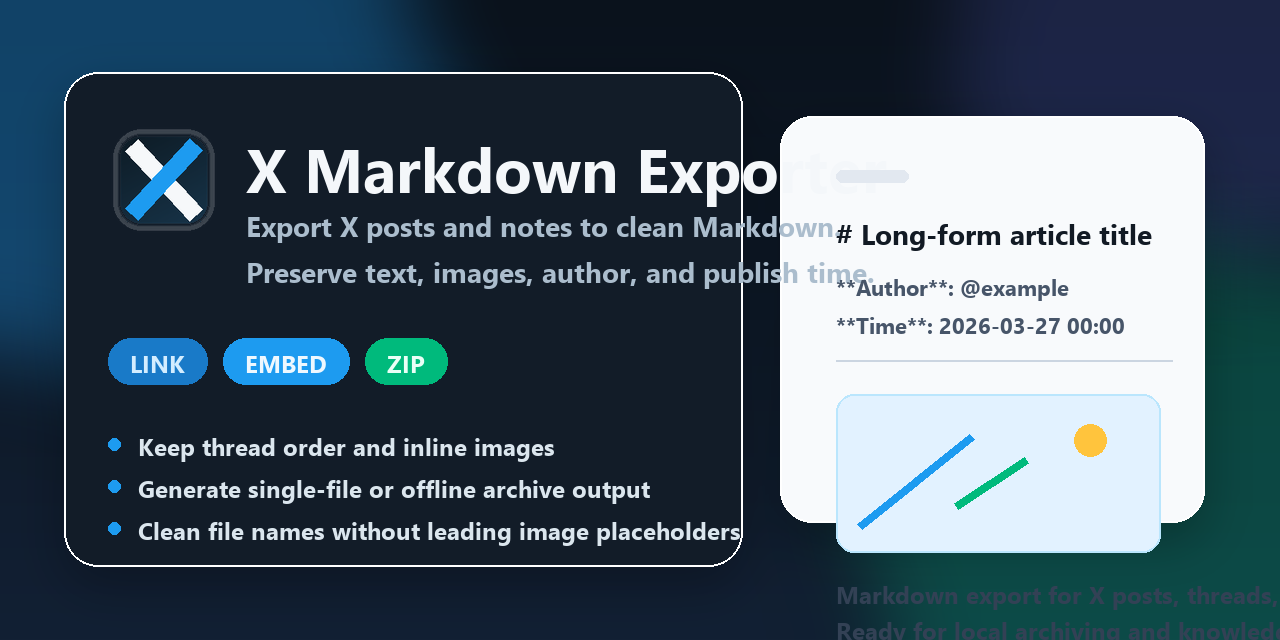
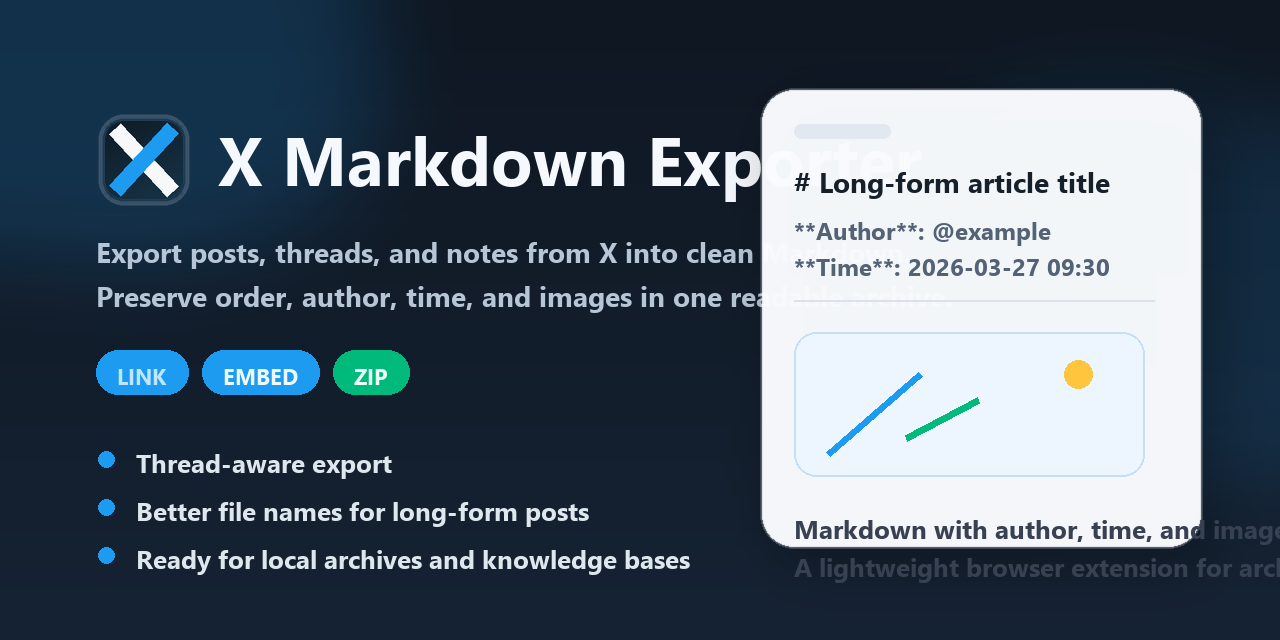
Refresh repo preview and bilingual README

diff --git a/README.md b/README.md
@@ -2,11 +2,21 @@
 
 ![X Markdown Exporter Social Preview](assets/social-preview.png)
 
+[中文](#chinese) | [English](#english)
+
 一个用于导出 X（Twitter）推文、线程和长文为 Markdown 的 Chrome 扩展。
+
+X Markdown Exporter is a Chrome extension for exporting X (Twitter) posts, threads, and long-form notes into Markdown.
+
+<a id="chinese"></a>
+
+## 中文
+
+### 这是什么
 
 它会尽量保留原页面里的图文顺序，并支持三种下载方式：链接引用、内嵌图片、ZIP 打包。导出默认附带作者和发布时间，适合做归档、收藏、整理素材和后续二次写作。
 
-## 功能特性
+### 功能特性
 
 - 支持 X / Twitter 推文详情页导出
 - 支持长文 / Note 页面提取
@@ -20,9 +30,9 @@
 - 自动优化标题与文件名，跳过开头图片占位内容
 - 所有处理都在本地浏览器完成，不依赖后端服务
 
-## 安装方式
+### 安装方式
 
-### 方式一：从 GitHub Release 下载
+#### 方式一：从 GitHub Release 下载
 
 1. 打开 [Releases](https://github.com/Renn9527/x-markdown-exporter/releases)
 2. 下载最新版本里的 `x-markdown-exporter-v1.3.0.zip`
@@ -34,7 +44,7 @@
 6. 点击“加载已解压的扩展程序”
 7. 选择解压后的目录
 
-### 方式二：直接克隆仓库
+#### 方式二：直接克隆仓库
 
 ```bash
 git clone https://github.com/Renn9527/x-markdown-exporter.git
@@ -42,16 +52,16 @@ git clone https://github.com/Renn9527/x-markdown-exporter.git
 
 然后同样在扩展管理页中加载仓库目录。
 
-## 使用方法
+### 使用方法
 
 1. 打开一条 X 推文详情页，或一篇 X 长文页面
 2. 点击浏览器工具栏中的扩展图标
 3. 选择下载模式
 4. 点击“下载 Markdown”
 
-## 导出模式说明
+### 导出模式说明
 
-### `link`
+#### `link`
 
 Markdown 中的图片使用原始 URL。
 
@@ -59,7 +69,7 @@ Markdown 中的图片使用原始 URL。
 - 文件尽量小
 - 不需要离线查看图片
 
-### `embed`
+#### `embed`
 
 图片会压缩后以内嵌方式写入 Markdown。
 
@@ -67,7 +77,7 @@ Markdown 中的图片使用原始 URL。
 - 希望保留单文件
 - 方便直接导入 Obsidian、Notion 或本地知识库
 
-### `zip`
+#### `zip`
 
 Markdown 和图片分开保存，再一起打包成 ZIP。
 
@@ -75,7 +85,7 @@ Markdown 和图片分开保存，再一起打包成 ZIP。
 - 完整离线归档
 - 希望 Markdown 本体保持清爽
 
-## 项目结构
+### 项目结构
 
 ```text
 .
@@ -90,7 +100,7 @@ Markdown 和图片分开保存，再一起打包成 ZIP。
 └─ assets/
 ```
 
-## 技术实现
+### 技术实现
 
 - `content.js`
   - 识别推文详情页和长文页面
@@ -103,19 +113,19 @@ Markdown 和图片分开保存，再一起打包成 ZIP。
   - 检测当前页面是否可导出
   - 切换导出模式并触发下载
 
-## 已知限制
+### 已知限制
 
 - 需要在推文详情页或长文页面使用，列表流页面不会直接导出
 - X 页面 DOM 结构如果发生明显变化，提取规则可能需要更新
 - 当前主要覆盖文字、图片和线程内容，复杂卡片内容可能存在提取差异
 
-## 隐私说明
+### 隐私说明
 
 - 不上传内容到第三方服务器
 - 不依赖账号登录之外的外部服务
 - 图片资源仅通过扩展后台从 X / Twitter 官方资源地址拉取
 
-## 开发说明
+### 开发说明
 
 项目目前是纯前端浏览器扩展，无构建步骤。
 
@@ -125,6 +135,134 @@ Markdown 和图片分开保存，再一起打包成 ZIP。
 2. 回到扩展管理页
 3. 点击“重新加载”
 4. 在 X 页面重新测试
+
+<a id="english"></a>
+
+## English
+
+### What It Does
+
+X Markdown Exporter preserves the reading order of text and images on X pages and lets you export content in three formats: linked images, embedded images, or a ZIP archive. Author and publish time are included by default, which makes it useful for archiving, collecting references, and reusing content in writing workflows.
+
+### Features
+
+- Export X / Twitter post detail pages to Markdown
+- Extract content from long-form notes and article pages
+- Preserve the original order of text and images
+- Export same-author thread continuations
+- Support three output modes:
+  - `link`: keep remote image URLs inside Markdown
+  - `embed`: compress images and embed them as Base64 in a single Markdown file
+  - `zip`: package Markdown and images together in a ZIP archive
+- Include author and publish time by default
+- Generate cleaner titles and filenames by skipping leading image placeholders
+- Run fully in the browser without any backend service
+
+### Installation
+
+#### Option 1: Download from GitHub Releases
+
+1. Open [Releases](https://github.com/Renn9527/x-markdown-exporter/releases)
+2. Download `x-markdown-exporter-v1.3.0.zip`
+3. Extract the ZIP file
+4. Open the extensions page in Chrome or Edge:
+   - Chrome: `chrome://extensions/`
+   - Edge: `edge://extensions/`
+5. Enable Developer Mode
+6. Click `Load unpacked`
+7. Select the extracted folder
+
+#### Option 2: Clone the Repository
+
+```bash
+git clone https://github.com/Renn9527/x-markdown-exporter.git
+```
+
+Then load the repository folder as an unpacked extension.
+
+### Usage
+
+1. Open an X post detail page or a long-form note page
+2. Click the extension icon in the browser toolbar
+3. Choose an export mode
+4. Click `Download Markdown`
+
+### Export Modes
+
+#### `link`
+
+Images remain as remote URLs inside the Markdown file.
+
+Best for:
+- the smallest possible file size
+- online reading with no offline image requirement
+
+#### `embed`
+
+Images are compressed and embedded directly into the Markdown file.
+
+Best for:
+- a single self-contained file
+- importing into Obsidian, Notion, or local knowledge bases
+
+#### `zip`
+
+Markdown and images are stored separately and packaged into a ZIP file.
+
+Best for:
+- complete offline archiving
+- keeping the Markdown body cleaner
+
+### Project Structure
+
+```text
+.
+├─ manifest.json
+├─ popup.html
+├─ popup.js
+├─ content.js
+├─ background.js
+├─ jszip.min.js
+├─ content.css
+├─ icons/
+└─ assets/
+```
+
+### Technical Notes
+
+- `content.js`
+  - detects post detail pages and note pages
+  - extracts text, images, author, time, and thread content
+  - builds the final Markdown output
+- `background.js`
+  - fetches cross-origin images
+  - converts images to Base64 for `embed` and `zip` modes
+- `popup.js`
+  - checks whether the current page can be exported
+  - switches export modes and triggers downloads
+
+### Known Limitations
+
+- The extension is meant for post detail pages and note pages, not the timeline feed itself
+- If X changes its DOM structure significantly, extraction rules may need updates
+- The current extractor focuses on text, images, and thread content; complex cards may vary
+
+### Privacy
+
+- No content is uploaded to third-party servers
+- No external service is required beyond normal X browsing
+- Images are fetched only from official X / Twitter asset URLs through the extension background worker
+
+### Development
+
+This project is a plain browser extension with no build step.
+
+To test local changes:
+
+1. Edit the project files
+2. Return to the browser extensions page
+3. Click `Reload`
+4. Test again on an X page
 
 ## License
 
